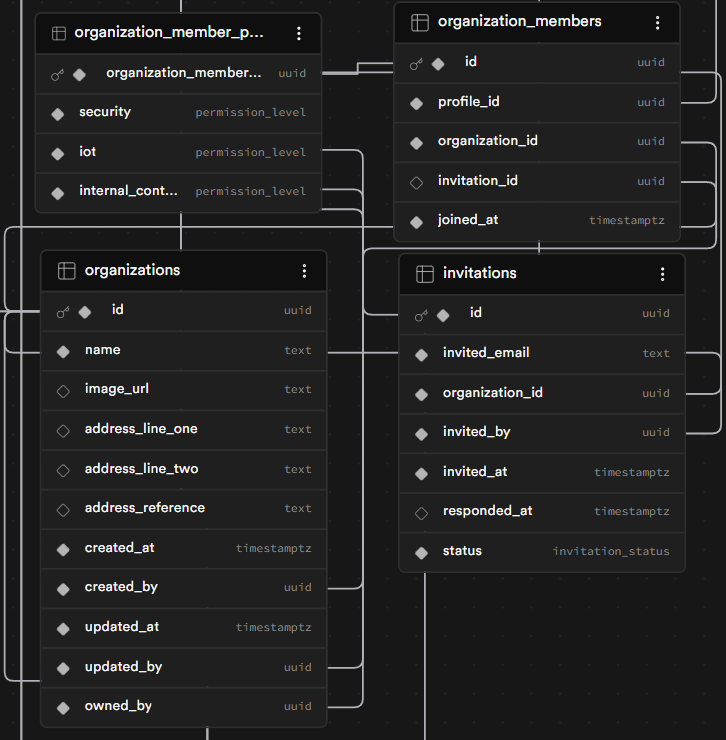
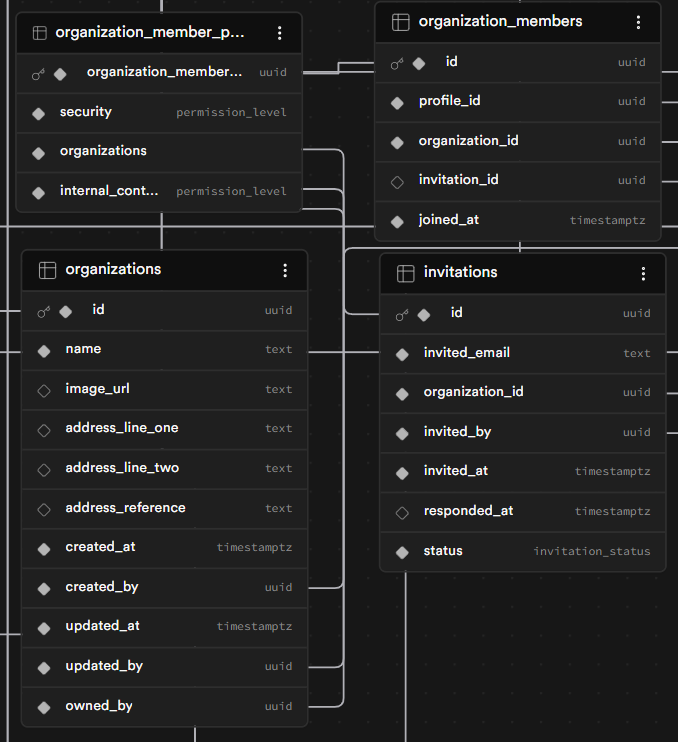
feat: add dev evidence

diff --git a/sections/capitulo_6/implementation/sprint_2/dev_evidence.md b/sections/capitulo_6/implementation/sprint_2/dev_evidence.md
@@ -1,0 +1,63 @@
+En la siguiente tabla se muestran los commits realizados en la organización Soulware-IoT en el sprint 2.
+
+| Repositorio | Branch | Commit Id | Commit Message | Commit Message Body | Commitido en (Fecha) |
+|-------------|--------|-----------|----------------|---------------------|----------------------|
+| api-gw | develop | 4d1c21d | chore: updated dependencies and tsconfig | | 2026-05-28 |
+| api-gw | develop | 1fe7bc8 | refactor: turn 'SupabaseAuthGuard' into 'AuthenticationGuard' | | 2026-05-28 |
+| api-gw | develop | 9e560e0 | feat: stablish guards for the bounded context | | 2026-06-12 |
+| api-gw | develop | c3974e8 | feat: add controllers and service for bounded contexts | | 2026-06-18 |
+| api-gw | feature/debug | b06fb91 | feat: add security endpoints | | 2026-06-19 |
+| api-gw | feature/debug | 14076bd | fix(api-gw): wire modules, fix permission guards, relay backend errors | | 2026-06-19 |
+| api-gw | feature/api-gw-routing-refactor | 745763b | refactor(api-gw): per-context route constants, headers class, single BACKEND_URL | | 2026-06-19 |
+| api-gw | feature/i18n-errors-and-org-list | 18b75cf | feat(api-gw): localize gateway errors via Accept-Language + expose GET /organizations | | 2026-06-20 |
+| api-gw | main | 4caccaa | fix(api-gw): align Security device routes with backend main | | 2026-06-20 |
+| api-gw | main | 96a1b3c | feat(api-gw): enable CORS for web clients + widen BoundedContext type | | 2026-06-20 |
+| backend | feature/profiles | 5a09a2a | feat: add profiles context | | 2026-06-17 |
+| backend | feature/profiles | 88dd614 | feat: add global exception handler for prettier exception responses | | 2026-06-17 |
+| backend | feature/profiles | 865b51f | feat: add exception response i18n | | 2026-06-17 |
+| backend | feature/organizations | 5e6defe | fix: amend database compatibility | | 2026-06-18 |
+| backend | feature/organizations | 797194f | feat: add i18n for domain exceptions on organizations service | | 2026-06-18 |
+| backend | feature/organizations | 46516d5 | refactor: split application and interface layers by resource | | 2026-06-18 |
+| backend | feature/organizations | 3ea3d12 | fix: resolve profile details instead of returning profileId | | 2026-06-18 |
+| backend | feature/internal-control | adb11a9 | feat: add INTEGER vs DECIMAL number kind to domain model | | 2026-06-18 |
+| backend | feature/internal-control | 97731f9 | feat: add basic control format endpoints | | 2026-06-18 |
+| backend | feature/internal-control | 6e66b37 | feat: add control processes controller | | 2026-06-18 |
+| backend | feature/security | 190d3b8 | feat: add basic device registration endpoints | | 2026-06-18 |
+| backend | feature/security | 926a14f | feat: add get invitations by userId | | 2026-06-19 |
+| backend | feature/security | 6e1cd0b | feat: add audit for device registration | | 2026-06-19 |
+| backend | feature/security | bef2947 | feat: add device registration flow endpoints | | 2026-06-19 |
+| backend | feature/security | 464b3ef | fix: add missing validations for endpoints | | 2026-06-19 |
+| backend | feature/security | 86051d8 | refactor: rework the registration and authentication flow for edge and iot devices | | 2026-06-19 |
+| backend | feature/security | 0be6059 | feat: add update thresholds endpoint | | 2026-06-19 |
+| backend | feature/security | 4467102 | feat: add device fetch endpoint | | 2026-06-19 |
+| backend | feature/security | 8b2c7fd | feat: add iot management endpoints | | 2026-06-19 |
+| backend | feature/security | 2feea98 | feat: add edge device management endpoints | | 2026-06-19 |
+| backend | feature/security | 3e39b07 | feat: add get organizations by userId | | 2026-06-19 |
+| backend | feature/security | f8ecd18 | refactor: merge endpoints | | 2026-06-19 |
+| backend | feature/security | c548b53 | fix: amend endpoint resource names for better consistency | | 2026-06-19 |
+| backend | feature/security | d71c923 | feat: add cors config | | 2026-06-19 |
+| backend | feature/security | 2805748 | refactor: nest jpa entity-specific classes inside jpa package | | 2026-06-19 |
+| backend | develop | df3a3a6 | feat: add telemetry using mongodb | | 2026-06-20 |
+| backend | develop | 755278a | fix: amend PermissionLevel enum | | 2026-06-20 |
+| mobile-app | feature/auth | fc13a21 | refactor: upgrade visual for login page | | 2026-06-10 |
+| mobile-app | feature/auth | 0e8551c | refactor: upgrade register page | | 2026-06-10 |
+| mobile-app | feature/auth | e38cf7b | feat: add application router | | 2026-06-10 |
+| mobile-app | feature/auth | c560080 | tests: AuthRepositoryImpl y ProfileRepositoryImpl | | 2026-06-10 |
+| mobile-app | develop | a4eed83 | feat: rebrand a Cocina360 (icono, splash, nombre y tema) | | 2026-06-17 |
+| mobile-app | develop | a78b6ee | feat(auth): add logout action to home AppBar | | 2026-06-18 |
+| mobile-app | feature/organization-screen | eadbec9 | feat(organization): add Organization screen consuming the api-gw | | 2026-06-18 |
+| mobile-app | feature/organization-api-integration | 7d4dc89 | fix(organization): wire Organization screen to the real api-gw + emulator networking | | 2026-06-19 |
+| mobile-app | feature/edit-organization | 1abb62a | feat(organization): edit organization screen | | 2026-06-19 |
+| mobile-app | feature/member-management | 5e76299 | feat(organization): member detail, edit permissions, invite members | | 2026-06-19 |
+| mobile-app | feature/member-management | ac681ca | feat(member-management): include invitations module | | 2026-06-19 |
+| mobile-app | feature/i18n-and-org-switcher | a17095e | feat(i18n+org): localized error messages (ES/EN) and organization switcher in drawer | | 2026-06-20 |
+| mobile-app | develop | 61380a5 | fix(invitations): refresh session + organizations list after accepting | | 2026-06-20 |
+| mobile-app | feature/devices-read | 8d77489 | feat(devices): read-only Devices screen (list + detail) via api-gw GET endpoints | | 2026-06-20 |
+| mobile-app | develop | d0b8457 | feat: rename iot to organization | | 2026-06-20 |
+| mobile-app | develop | 62fdfc4 | fix: amend bad dto mapping | | 2026-06-20 |
+| mobile-app | develop | c6e8ae5 | fix: amend i18n | | 2026-06-20 |
+| edge-application | main | 85e5c4a | feat: add edge device authentication via edge gateway | | 2026-06-19 |
+| edge-application | develop | d5755ab | feat: add insta app crash if configuration is not successful | | 2026-06-19 |
+| edge-application | develop | 3d63298 | feat: add device polling | | 2026-06-19 |
+| edge-application | develop | f9e9450 | feat: add readings context | | 2026-06-20 |
+| edge-gw | main | 0069ac7 | feat: add edge device authentication request forwarding | | 2026-06-19 |